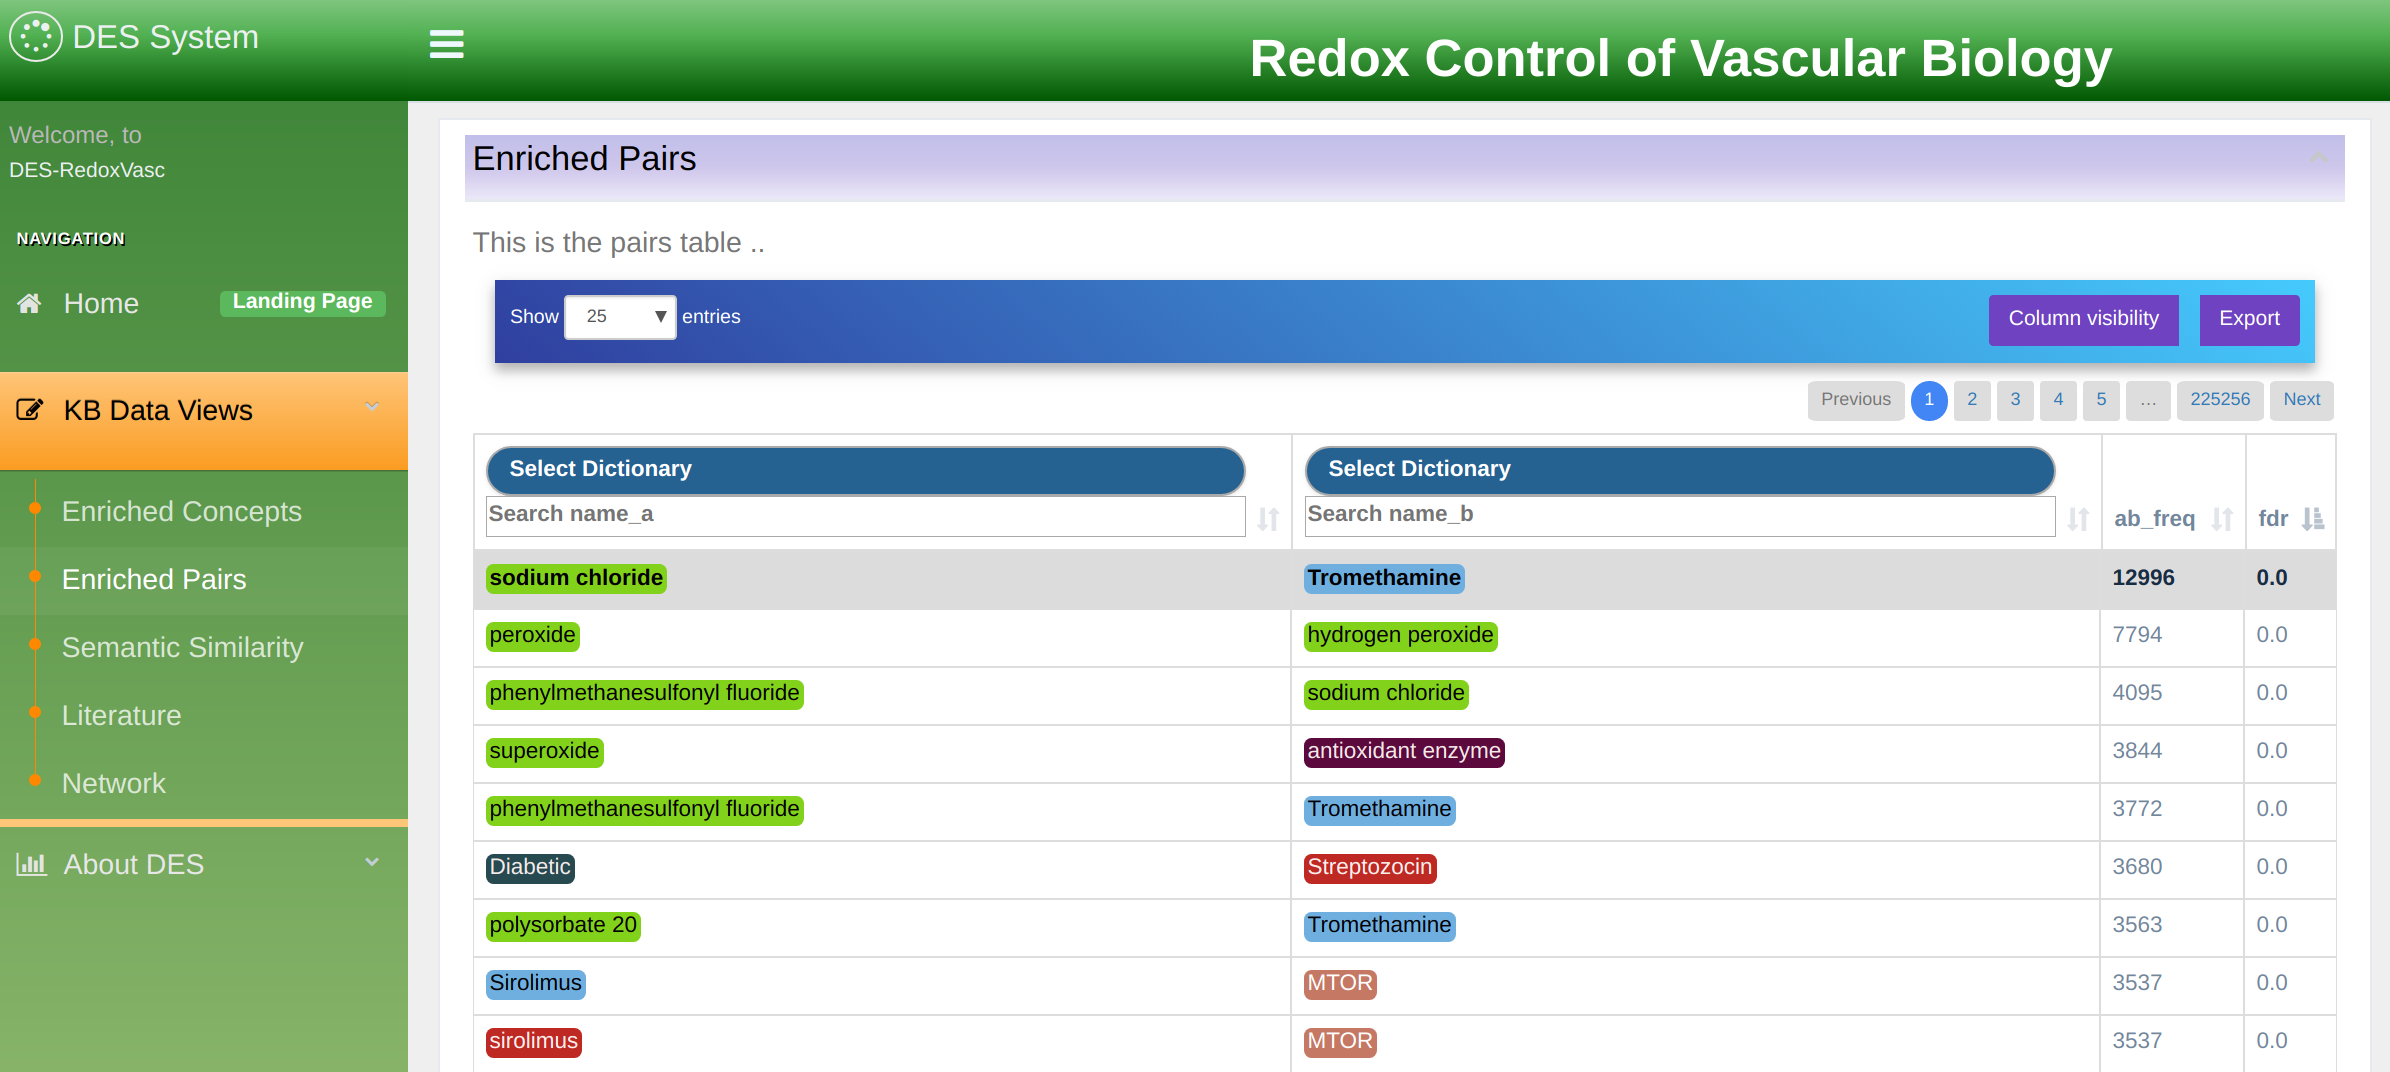
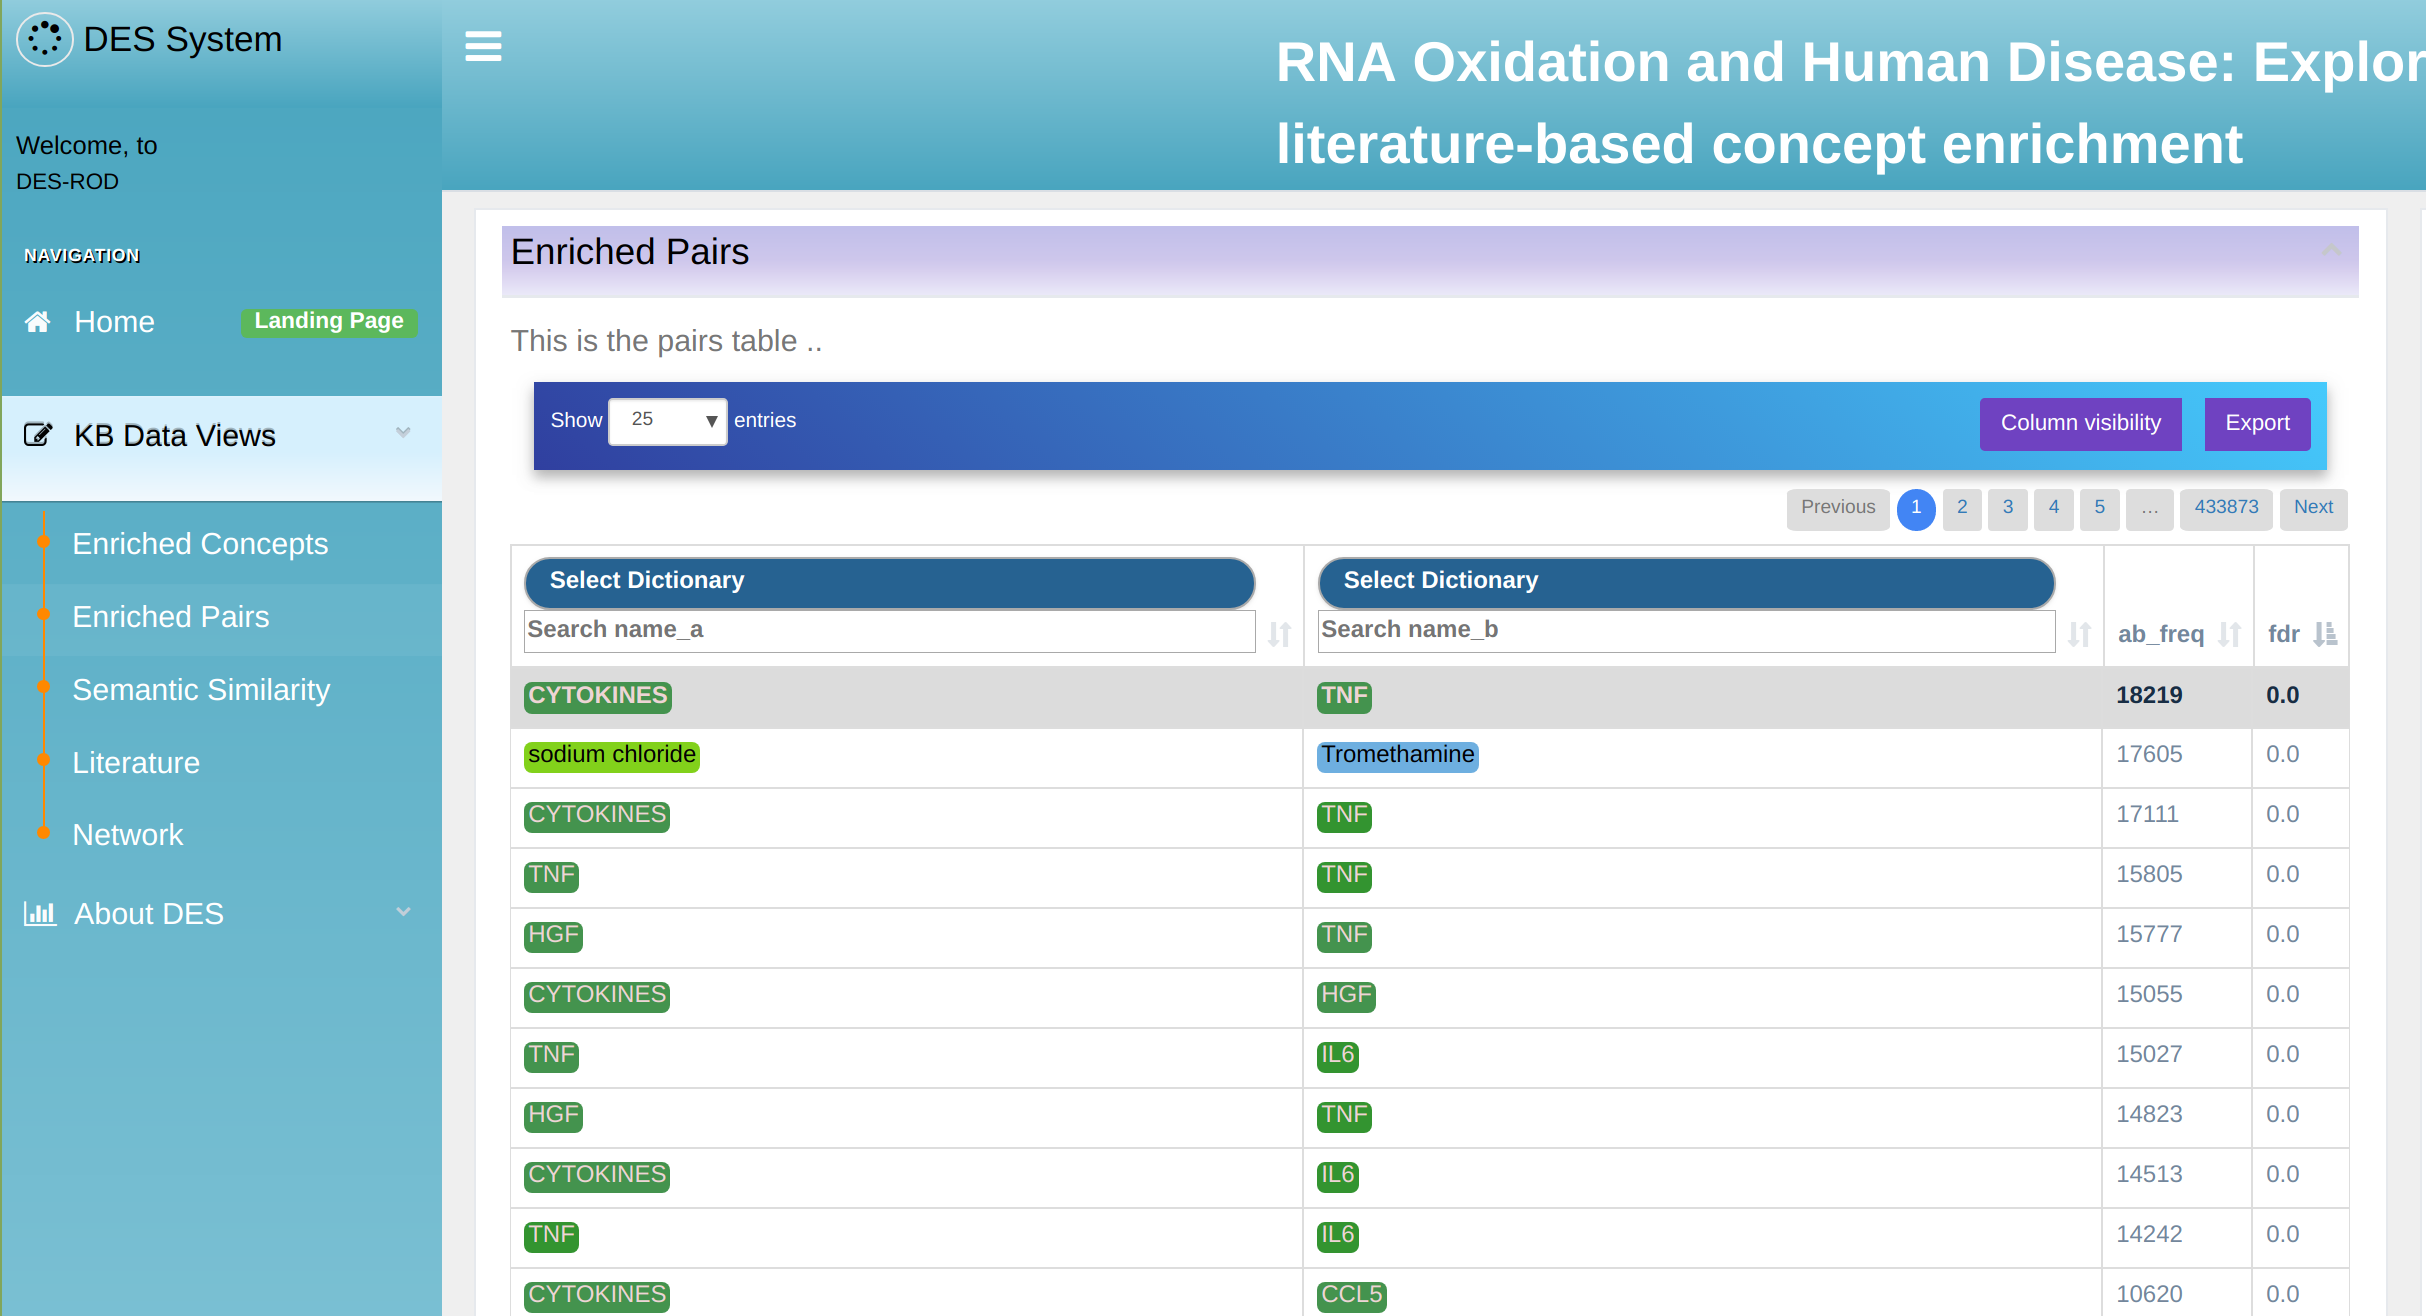
version of des-docs for des-rod

diff --git a/docs/exploration.md b/docs/exploration.md
@@ -1,7 +1,7 @@
-# Knowledgebase exploration in DES-RV
+# Knowledgebase exploration in DES-ROD
 ## Introduction
 
-Examples were extracted from the DES-rv KB, minor differences might exist
+Examples were extracted from the DES-rod KB, minor differences might exist
 for the other KBs build on DES.
 
 ![Dragon Exploration System](images/des_lit.png "Figure 2. Dragon Exploration System Literature View")
@@ -29,11 +29,11 @@ hypotheses.
 
 ## Knowledgebase Exploration
 
-DES_rv is a web based application. To start exploring, inside your
+DES_rod is a web based application. To start exploring, inside your
 browser open the [home
-page](https://www.cbrc.kaust.edu.sa/des-rv). This will take you to the
+page](https://www.cbrc.kaust.edu.sa/des-rod). This will take you to the
 knowledgebase opening screen as shown in Figure 4 for
-*DES-rv*. To navigate through the knowledgebase, you can use the
+*DES-rod*. To navigate through the knowledgebase, you can use the
 main menu as shown in the figure 5.
 
 ![Knowledgebase opening screen](images/des_start.png "Figure 4. Knowledgebase opening screen")

diff --git a/docs/index.md b/docs/index.md
@@ -1,12 +1,13 @@
-# Software manual for Knowledge Exploration System DES-RV
+# Software manual for Knowledge Exploration System DES-ROD
 
 Welcome to DES, the knowledge exploration system used as the basis for several knowledgebases:
 
 - [DES tomato](http://www.cbrc.kaust.edu.sa/des_tomato) (2017)
 - [DES mutation](http://www.cbrc.kaust.edu.sa/des-mutation) (2018)
 - [DES redox](https://www.cbrc.kaust.edu.sa/des-rv) (2019)
+- [DES rod](https://www.cbrc.kaust.edu.sa/des-rod) (2019)
 
-This version of the documentation is tailored to DES redox, and
+This version of the documentation is tailored to DES rod, and
 not all features described are present in earlier versions.
 To see the documentation for earlier version, change the version
 in the bottom right corner.
